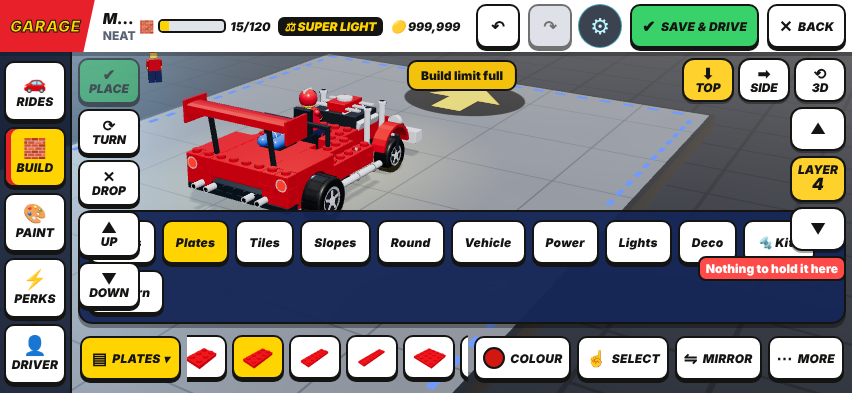
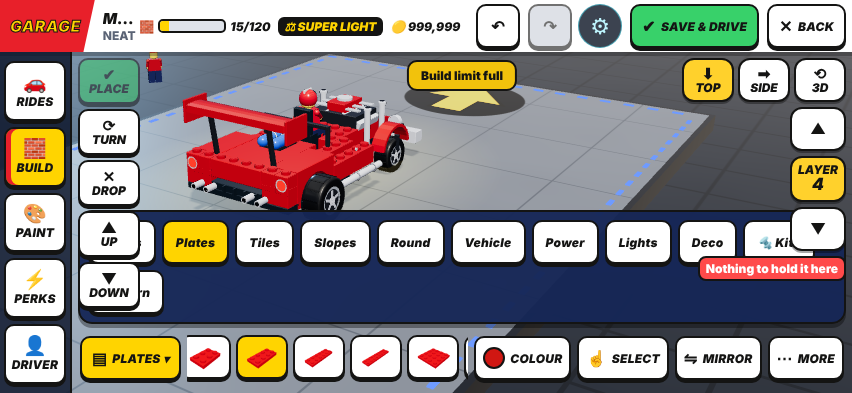
build25: layer column steps aside while a CATEGORY/COLOUR/MORE popup is open (it covered CLEAR); PDF baseline on live: 21 misplacements in 80 taps

Changed region(s): [[0.2136, 0.855, 0.5493, 0.9771]]

diff --git a/src/98b_builder_layers.js b/src/98b_builder_layers.js
@@ -79,7 +79,7 @@ R2_calc=(f=>function(){const A=f.apply(this,arguments),e=$('#b25');if(A&&e&&GB_.
 function B25_ui(){const X=$('#gbx');if(!X)return;let E=$('#b25');if(!E){E=document.createElement('div');E.id='b25';X.appendChild(E);E.addEventListener('pointerdown',e=>e.stopPropagation());
   E.addEventListener('click',e=>{const b=e.target.closest('button');if(!b)return;e.stopPropagation();const a=b.dataset.b25;if(a==='up')B25_step(1);else if(a==='dn')B25_step(-1);
    else if(a==='lay'){B25.on=B25.on?0:1;B25_save();if(B25.on&&B25.L==null)B25.L=B25_def();if(GS.held)GS_drop();B25_grid();B25_look();try{AU.sfx('pick')}catch(_){}B25_ui()}else B25_view(a)})}
- const on=GB_.bk&&!X.hidden;E.hidden=!on;if(!on)return;const lay=B25.on,n=lay&&B25.L!=null?B25.L-B25_floor():null,why=lay&&GS.held&&GS.held.bad?B25.why:'';
+ const on=GB_.bk&&!X.hidden&&!(typeof R2!=='undefined'&&R2.pop);E.hidden=!on;if(!on)return;const lay=B25.on,n=lay&&B25.L!=null?B25.L-B25_floor():null,why=lay&&GS.held&&GS.held.bad?B25.why:'';
  const h=`<div class="b25V">${[['top','⬇','TOP'],['side','➡','SIDE'],['3d','⟲','3D']].map(([k,i,t])=>`<button data-b25="${k}" class="${B25.view===k?'on':''}"><i>${i}</i>${t}</button>`).join('')}</div>`+
   `<button data-b25="up" ${lay?'':'disabled'}><i>▲</i></button><button data-b25="lay" class="b25L ${lay?'on':''}"><small>${lay?'LAYER':'LAYERS'}</small><b>${lay?n:'AUTO'}</b></button><button data-b25="dn" ${lay?'':'disabled'}><i>▼</i></button>`+(why?`<em>${why}</em>`:'');
  if(E._h!==h){E._h=h;E.innerHTML=h}}
@@ -92,6 +92,8 @@ GNB_new=(f=>function(){const r=f.apply(this,arguments);if(GB_.bk){B25.L=B25_def(
 GB_preset=(f=>function(){const r=f.apply(this,arguments);if(GB_.bk){B25.L=B25_def();B25_grid();B25_look();B25_ui()}return r})(GB_preset);
 // the CATEGORY ▾ popup stayed open after picking a category and covered the car, the parts and ▼: close it once a category is picked
 addEventListener('click',e=>{const b=e.target.closest&&e.target.closest('#gbBkCt .gbCt');if(b&&!b.dataset.r2s)setTimeout(()=>{if(R2.pop==='cat')R2_pop(null)},0)},true);
+// the layer column steps aside while a CATEGORY / COLOUR / MORE popup is open (it covered their right end)
+R2_pop=(f=>function(){const r=f.apply(this,arguments);B25_ui();return r})(R2_pop);
 // STEP ▲/▼ on the held part moves the active layer too (one control for height)
 G8_step=(f=>function(d){if(!B25_act())return f.apply(this,arguments);return B25_step(d)})(G8_step);
 {const st=document.createElement('style');st.textContent=`#b25{position:absolute;right:6px;top:calc(var(--r2hh,52px) + 6px);display:flex;flex-direction:column;align-items:flex-end;gap:5px;z-index:4}#b25[hidden]{display:none}

diff --git a/qa25/roam.js b/qa25/roam.js
@@ -1,6 +1,6 @@
 // enter free roam (Frankfurt) by the test hook, then clear the intro cutscene / tutorial with real taps
 module.exports=async(T)=>{const{ev}=T;await ev(()=>__g9ev(`(()=>{if(state!=='roam')enterRoam();return 1})()`));
- await T.p.waitForFunction(()=>{try{return __g9ev("state==='roam'&&RO.on&&RO.marks.length>0")}catch(e){return false}},null,{timeout:180000});
+ await T.p.waitForFunction(()=>{try{return __g9ev("state==='roam'&&RO.on&&RO.marks.length>0")}catch(e){return false}},null,{timeout:480000});
  for(let i=0;i<30;i++){await T.pg.waitForTimeout(1500);if(await ev(()=>document.querySelector('#roamMapBtn').getBoundingClientRect().width>0))break;
   for(const s of['#m1Skip','#tutSkip','#storyGo']){const v=await ev(s=>{const e=document.querySelector(s);return !!e&&e.getBoundingClientRect().width>0},s);if(v){await T.tap(s,800);break}}}
  await T.pg.waitForTimeout(1500)};
